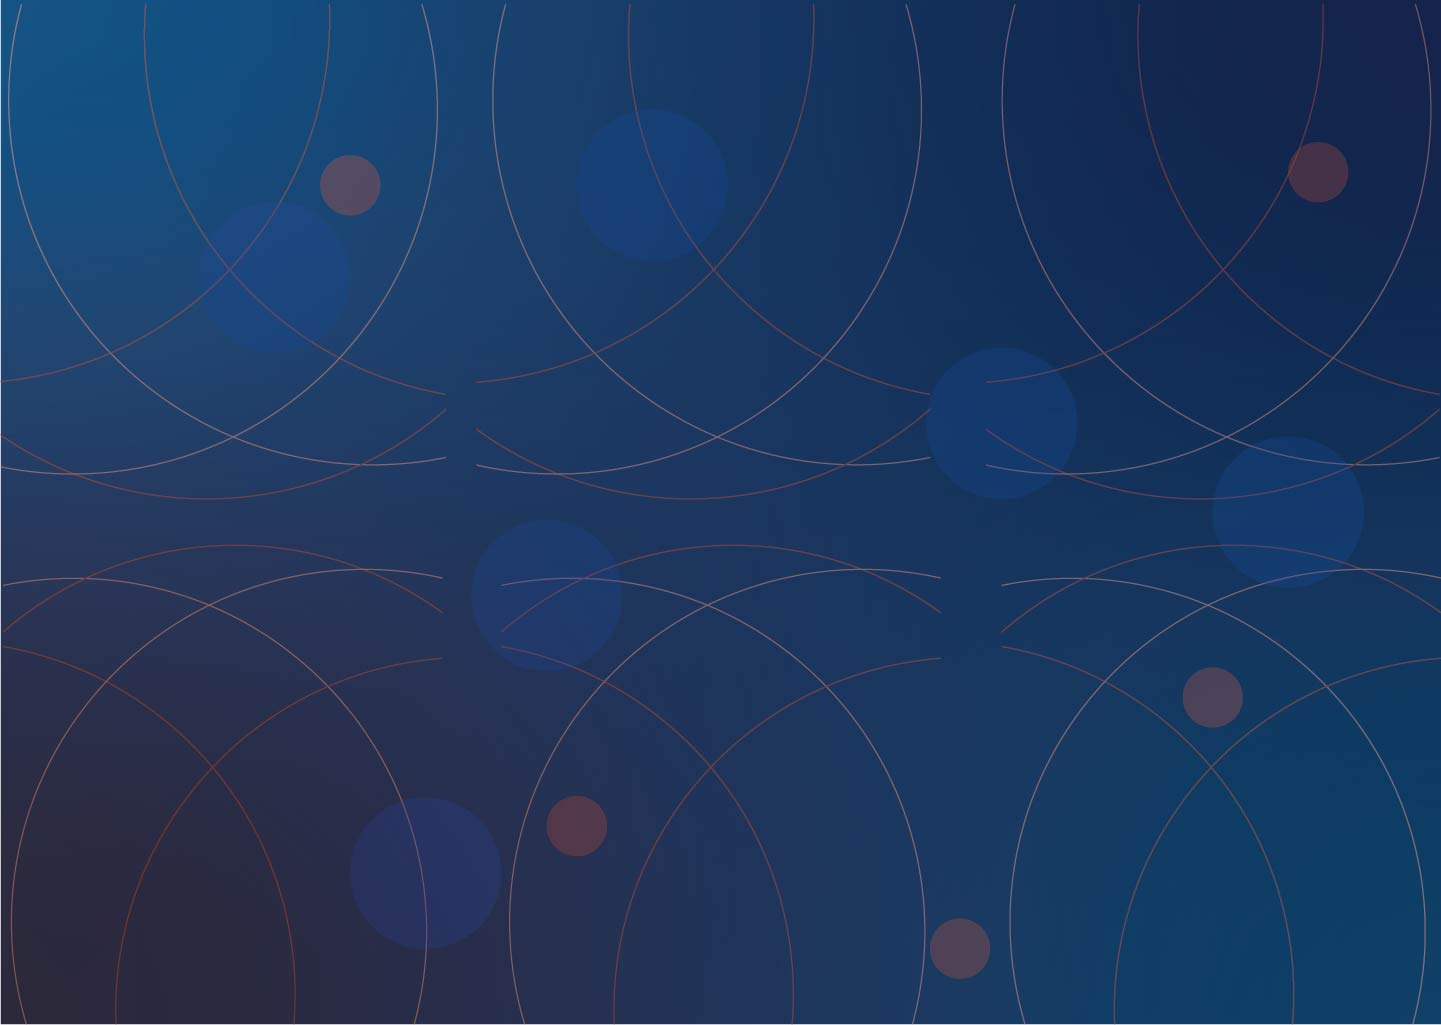
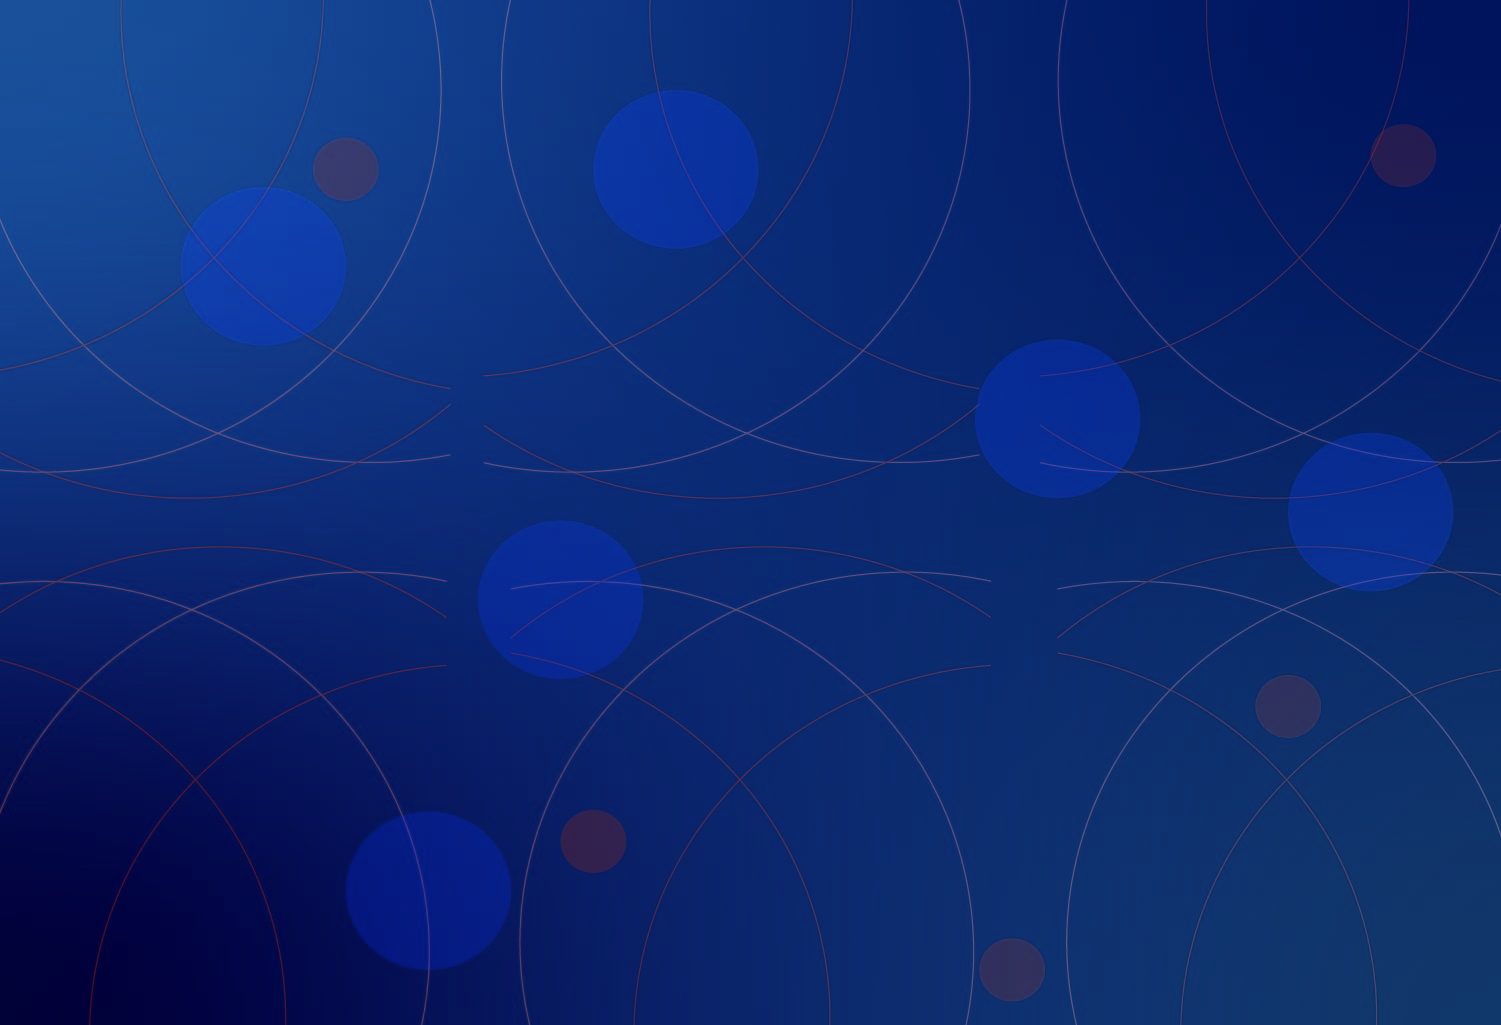
Substituindo todos os bgs

diff --git a/style.css b/style.css
@@ -6,7 +6,7 @@
 
 :root {
     --text-color:white;
-    --bg-url: url(./assets/bg_dark_2.jpg);
+    --bg-url: url(./assets/bg_dark.jpg);
     --stroke-color: rgba(54, 169, 225, 0.5); 
     --surface-color: rgba(294, 113, 184, 0.2);
     --surface-color-hover:rgba(4, 67, 101, 0.05);
